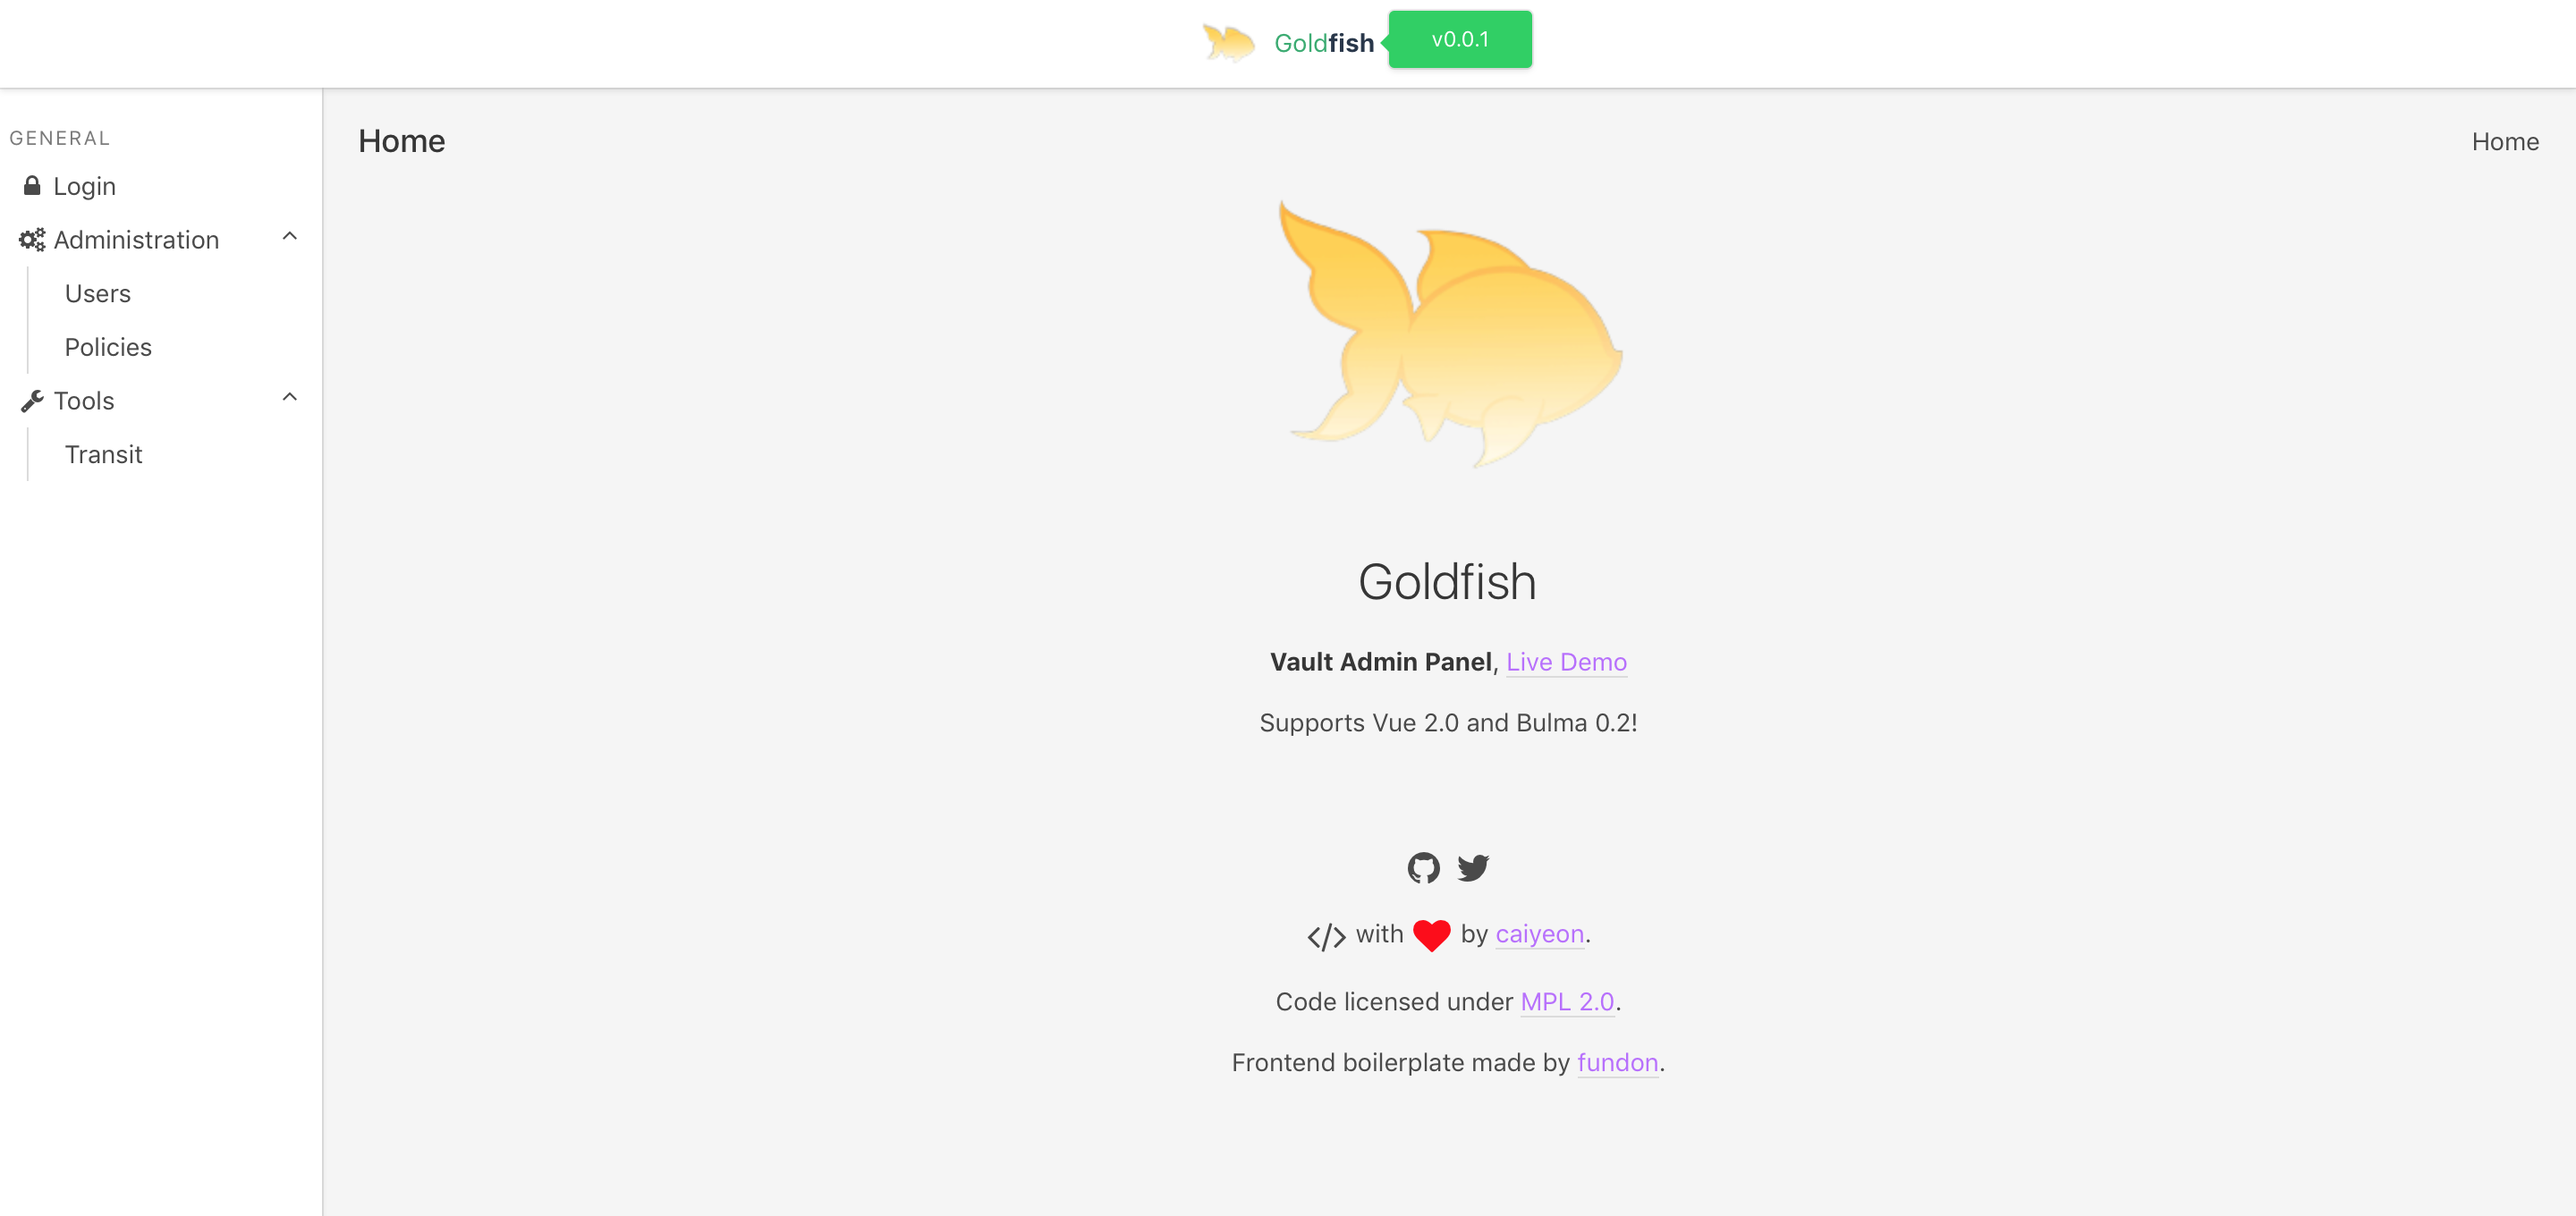
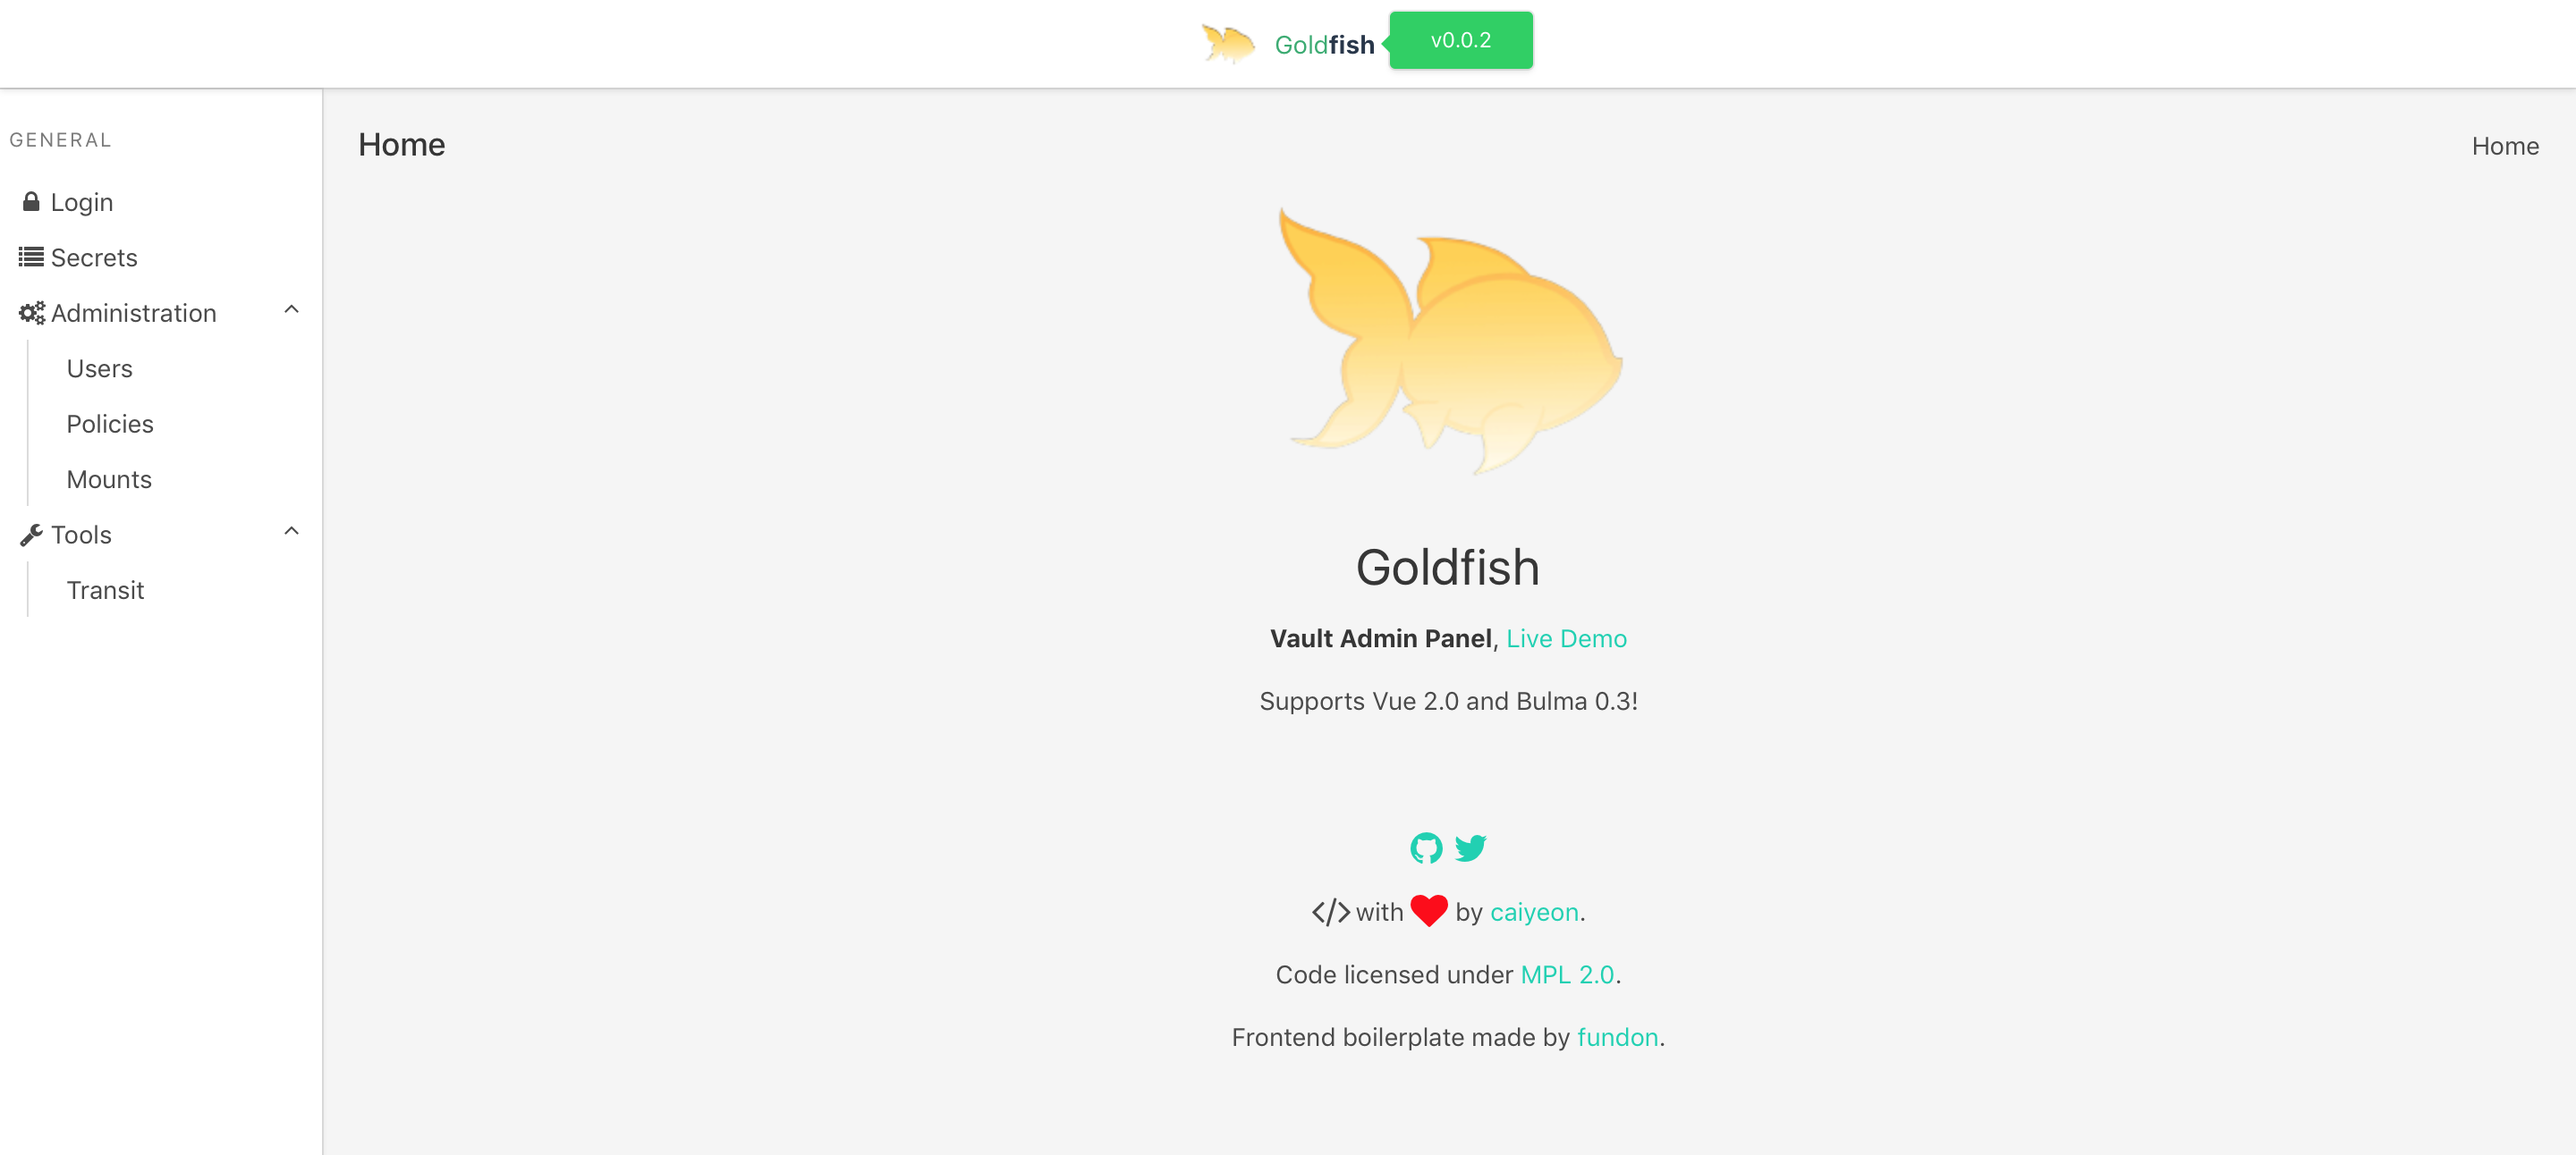
Updated readme and screenshots

diff --git a/frontend/client/views/secrets/index.vue b/frontend/client/views/secrets/index.vue
@@ -71,9 +71,11 @@
                   <td>
                     {{ entry.desc }}
                   </td>
-                  <td class="is-icon">
+                  <td width="68">
                     <a @click="deleteItem">
+                    <span class="icon">
                       <i class="fa fa-trash-o"></i>
+                    </span>
                     </a>
                   </td>
                 </tr>
@@ -336,5 +338,9 @@
 
   .control .button {
     margin: inherit;
+  }
+
+  .fa-trash-o {
+    color: red;
   }
 </style>

diff --git a/frontend/README.md b/frontend/README.md
@@ -37,84 +37,6 @@
 * Based on the awesome third-party [libraries](doc/dependencies.md)
 
 
-## [Backers](backers.md)
-
-Its ongoing development is made possible thanks to the support by these awesome backers. If you'd like to join them, check out:
-
-* [Patreon campaign](https://www.patreon.com/_fundon)
-
-* [OpenCollective](https://opencollective.com/vue-admin#backer): Support us with a monthly donation and help us continue our activities
-
-<a href="https://opencollective.com/vue-admin/backer/0/website" target="_blank"><img src="https://opencollective.com/vue-admin/backer/0/avatar.svg"></a>
-<a href="https://opencollective.com/vue-admin/backer/1/website" target="_blank"><img src="https://opencollective.com/vue-admin/backer/1/avatar.svg"></a>
-<a href="https://opencollective.com/vue-admin/backer/2/website" target="_blank"><img src="https://opencollective.com/vue-admin/backer/2/avatar.svg"></a>
-<a href="https://opencollective.com/vue-admin/backer/3/website" target="_blank"><img src="https://opencollective.com/vue-admin/backer/3/avatar.svg"></a>
-<a href="https://opencollective.com/vue-admin/backer/4/website" target="_blank"><img src="https://opencollective.com/vue-admin/backer/4/avatar.svg"></a>
-<a href="https://opencollective.com/vue-admin/backer/5/website" target="_blank"><img src="https://opencollective.com/vue-admin/backer/5/avatar.svg"></a>
-<a href="https://opencollective.com/vue-admin/backer/6/website" target="_blank"><img src="https://opencollective.com/vue-admin/backer/6/avatar.svg"></a>
-<a href="https://opencollective.com/vue-admin/backer/7/website" target="_blank"><img src="https://opencollective.com/vue-admin/backer/7/avatar.svg"></a>
-<a href="https://opencollective.com/vue-admin/backer/8/website" target="_blank"><img src="https://opencollective.com/vue-admin/backer/8/avatar.svg"></a>
-<a href="https://opencollective.com/vue-admin/backer/9/website" target="_blank"><img src="https://opencollective.com/vue-admin/backer/9/avatar.svg"></a>
-<a href="https://opencollective.com/vue-admin/backer/10/website" target="_blank"><img src="https://opencollective.com/vue-admin/backer/10/avatar.svg"></a>
-<a href="https://opencollective.com/vue-admin/backer/11/website" target="_blank"><img src="https://opencollective.com/vue-admin/backer/11/avatar.svg"></a>
-<a href="https://opencollective.com/vue-admin/backer/12/website" target="_blank"><img src="https://opencollective.com/vue-admin/backer/12/avatar.svg"></a>
-<a href="https://opencollective.com/vue-admin/backer/13/website" target="_blank"><img src="https://opencollective.com/vue-admin/backer/13/avatar.svg"></a>
-<a href="https://opencollective.com/vue-admin/backer/14/website" target="_blank"><img src="https://opencollective.com/vue-admin/backer/14/avatar.svg"></a>
-<a href="https://opencollective.com/vue-admin/backer/15/website" target="_blank"><img src="https://opencollective.com/vue-admin/backer/15/avatar.svg"></a>
-<a href="https://opencollective.com/vue-admin/backer/16/website" target="_blank"><img src="https://opencollective.com/vue-admin/backer/16/avatar.svg"></a>
-<a href="https://opencollective.com/vue-admin/backer/17/website" target="_blank"><img src="https://opencollective.com/vue-admin/backer/17/avatar.svg"></a>
-<a href="https://opencollective.com/vue-admin/backer/18/website" target="_blank"><img src="https://opencollective.com/vue-admin/backer/18/avatar.svg"></a>
-<a href="https://opencollective.com/vue-admin/backer/19/website" target="_blank"><img src="https://opencollective.com/vue-admin/backer/19/avatar.svg"></a>
-<a href="https://opencollective.com/vue-admin/backer/20/website" target="_blank"><img src="https://opencollective.com/vue-admin/backer/20/avatar.svg"></a>
-<a href="https://opencollective.com/vue-admin/backer/21/website" target="_blank"><img src="https://opencollective.com/vue-admin/backer/21/avatar.svg"></a>
-<a href="https://opencollective.com/vue-admin/backer/22/website" target="_blank"><img src="https://opencollective.com/vue-admin/backer/22/avatar.svg"></a>
-<a href="https://opencollective.com/vue-admin/backer/23/website" target="_blank"><img src="https://opencollective.com/vue-admin/backer/23/avatar.svg"></a>
-<a href="https://opencollective.com/vue-admin/backer/24/website" target="_blank"><img src="https://opencollective.com/vue-admin/backer/24/avatar.svg"></a>
-<a href="https://opencollective.com/vue-admin/backer/25/website" target="_blank"><img src="https://opencollective.com/vue-admin/backer/25/avatar.svg"></a>
-<a href="https://opencollective.com/vue-admin/backer/26/website" target="_blank"><img src="https://opencollective.com/vue-admin/backer/26/avatar.svg"></a>
-<a href="https://opencollective.com/vue-admin/backer/27/website" target="_blank"><img src="https://opencollective.com/vue-admin/backer/27/avatar.svg"></a>
-<a href="https://opencollective.com/vue-admin/backer/28/website" target="_blank"><img src="https://opencollective.com/vue-admin/backer/28/avatar.svg"></a>
-<a href="https://opencollective.com/vue-admin/backer/29/website" target="_blank"><img src="https://opencollective.com/vue-admin/backer/29/avatar.svg"></a>
-
-## Sponsors
-
-Become a sponsor and get your logo on our README on Github with a link to your site. [[Become a sponsor](https://opencollective.com/vue-admin#sponsor)]
-
-<a href="https://opencollective.com/vue-admin/sponsor/0/website" target="_blank"><img src="https://opencollective.com/vue-admin/sponsor/0/avatar.svg"></a>
-<a href="https://opencollective.com/vue-admin/sponsor/1/website" target="_blank"><img src="https://opencollective.com/vue-admin/sponsor/1/avatar.svg"></a>
-<a href="https://opencollective.com/vue-admin/sponsor/2/website" target="_blank"><img src="https://opencollective.com/vue-admin/sponsor/2/avatar.svg"></a>
-<a href="https://opencollective.com/vue-admin/sponsor/3/website" target="_blank"><img src="https://opencollective.com/vue-admin/sponsor/3/avatar.svg"></a>
-<a href="https://opencollective.com/vue-admin/sponsor/4/website" target="_blank"><img src="https://opencollective.com/vue-admin/sponsor/4/avatar.svg"></a>
-<a href="https://opencollective.com/vue-admin/sponsor/5/website" target="_blank"><img src="https://opencollective.com/vue-admin/sponsor/5/avatar.svg"></a>
-<a href="https://opencollective.com/vue-admin/sponsor/6/website" target="_blank"><img src="https://opencollective.com/vue-admin/sponsor/6/avatar.svg"></a>
-<a href="https://opencollective.com/vue-admin/sponsor/7/website" target="_blank"><img src="https://opencollective.com/vue-admin/sponsor/7/avatar.svg"></a>
-<a href="https://opencollective.com/vue-admin/sponsor/8/website" target="_blank"><img src="https://opencollective.com/vue-admin/sponsor/8/avatar.svg"></a>
-<a href="https://opencollective.com/vue-admin/sponsor/9/website" target="_blank"><img src="https://opencollective.com/vue-admin/sponsor/9/avatar.svg"></a>
-<a href="https://opencollective.com/vue-admin/sponsor/10/website" target="_blank"><img src="https://opencollective.com/vue-admin/sponsor/10/avatar.svg"></a>
-<a href="https://opencollective.com/vue-admin/sponsor/11/website" target="_blank"><img src="https://opencollective.com/vue-admin/sponsor/11/avatar.svg"></a>
-<a href="https://opencollective.com/vue-admin/sponsor/12/website" target="_blank"><img src="https://opencollective.com/vue-admin/sponsor/12/avatar.svg"></a>
-<a href="https://opencollective.com/vue-admin/sponsor/13/website" target="_blank"><img src="https://opencollective.com/vue-admin/sponsor/13/avatar.svg"></a>
-<a href="https://opencollective.com/vue-admin/sponsor/14/website" target="_blank"><img src="https://opencollective.com/vue-admin/sponsor/14/avatar.svg"></a>
-<a href="https://opencollective.com/vue-admin/sponsor/15/website" target="_blank"><img src="https://opencollective.com/vue-admin/sponsor/15/avatar.svg"></a>
-<a href="https://opencollective.com/vue-admin/sponsor/16/website" target="_blank"><img src="https://opencollective.com/vue-admin/sponsor/16/avatar.svg"></a>
-<a href="https://opencollective.com/vue-admin/sponsor/17/website" target="_blank"><img src="https://opencollective.com/vue-admin/sponsor/17/avatar.svg"></a>
-<a href="https://opencollective.com/vue-admin/sponsor/18/website" target="_blank"><img src="https://opencollective.com/vue-admin/sponsor/18/avatar.svg"></a>
-<a href="https://opencollective.com/vue-admin/sponsor/19/website" target="_blank"><img src="https://opencollective.com/vue-admin/sponsor/19/avatar.svg"></a>
-<a href="https://opencollective.com/vue-admin/sponsor/20/website" target="_blank"><img src="https://opencollective.com/vue-admin/sponsor/20/avatar.svg"></a>
-<a href="https://opencollective.com/vue-admin/sponsor/21/website" target="_blank"><img src="https://opencollective.com/vue-admin/sponsor/21/avatar.svg"></a>
-<a href="https://opencollective.com/vue-admin/sponsor/22/website" target="_blank"><img src="https://opencollective.com/vue-admin/sponsor/22/avatar.svg"></a>
-<a href="https://opencollective.com/vue-admin/sponsor/23/website" target="_blank"><img src="https://opencollective.com/vue-admin/sponsor/23/avatar.svg"></a>
-<a href="https://opencollective.com/vue-admin/sponsor/24/website" target="_blank"><img src="https://opencollective.com/vue-admin/sponsor/24/avatar.svg"></a>
-<a href="https://opencollective.com/vue-admin/sponsor/25/website" target="_blank"><img src="https://opencollective.com/vue-admin/sponsor/25/avatar.svg"></a>
-<a href="https://opencollective.com/vue-admin/sponsor/26/website" target="_blank"><img src="https://opencollective.com/vue-admin/sponsor/26/avatar.svg"></a>
-<a href="https://opencollective.com/vue-admin/sponsor/27/website" target="_blank"><img src="https://opencollective.com/vue-admin/sponsor/27/avatar.svg"></a>
-<a href="https://opencollective.com/vue-admin/sponsor/28/website" target="_blank"><img src="https://opencollective.com/vue-admin/sponsor/28/avatar.svg"></a>
-<a href="https://opencollective.com/vue-admin/sponsor/29/website" target="_blank"><img src="https://opencollective.com/vue-admin/sponsor/29/avatar.svg"></a>
-
-
-## [Development](doc/development.md)
-
-
 ### Requirements
 
   * Node >= v5
@@ -122,13 +44,6 @@ Become a sponsor and get your logo on our README on Github with a link to your s
   * NPM >= v3
 
   * Webpack v2
-
-
-## Notes
-
-  If you want to use Vue Admin with Vue 1.0 version, please checkout the [vue-v1](https://github.com/vue-bulma/vue-admin/tree/vue-v1) branch.
-
-  Launch Vue Admin as a desktop application! Please check [Run Project with Electron](https://github.com/vue-bulma/vue-admin/wiki/Guide#run-project-with-electron)
 
 
 ## Maintainers

diff --git a/README.md b/README.md
@@ -1,17 +1,31 @@
-# What is this?
+<div align="center">
+
+<h3>Goldfish Vault UI - <a href="http://67.205.184.214:8000">Live Demo</a></h3>
+
+<p><img width="250" src="https://github.com/Caiyeon/goldfish/blob/master/frontend/client/assets/logo%402x.png"></p>
+
+</div>
+
+## What is this?
 
 Goldfish is a UI for [HashiCorp Vault](https://www.vaultproject.io)
 
-Although Vault's REST API is powerful, certain operations would benefit from a visual representation of data.
+Although Vault's REST API is powerful, certain operations would benefit from a visual representation.
 
 <!--
 -->
 ## Features
 
-* Login via token
-* Listing all users (tokens and userpass)
-* Listing all policies
-* Encrypting and decrypting arbitrary strings
+* [x] Reading secrets
+* [x] Listing users (tokens and userpass)
+* [x] Listing policies
+* [x] Listing and tuning mounts
+* [x] Encrypting and decrypting arbitrary strings (via transit backend)
+* [ ] Writing secrets
+* [ ] Listing approle role-id and secret-id
+* [ ] Login with userpass & more
+* [ ] Local settings mapping policy names to labels (for easier user listing visualization)
+* [ ] Secret backend specific tools (e.g. AWS backend)
 
 <!--
 -->
@@ -21,6 +35,13 @@ Although Vault's REST API is powerful, certain operations would benefit from a v
 
 
 ![](screenshots/Login.png)
+
+
+![](screenshots/Secrets.png)
+
+
+![](screenshots/Mounts.png)
+
 
 <!--
 -->
@@ -38,17 +59,21 @@ Backend:
 -->
 ## Design
 
-The user logs on by sending credentials (token) to the backend API wrapper, which encrypts the token with Vault's [transit backend](https://www.vaultproject.io/docs/secrets/transit/) before sending it back as a [secure cookie](http://www.gorillatoolkit.org/pkg/securecookie)
+User credentials, upon logging in, are encrypted using the [transit backend](https://www.vaultproject.io/docs/secrets/transit/) and the cipher is sent back as a [secure cookie](http://www.gorillatoolkit.org/pkg/securecookie)
 
-Any future actions from the user will be verified by sending the secure cookie to the wrapper, which is validated by [gorilla secure cookie package](http://www.gorillatoolkit.org/pkg/securecookie), and then decrypted using Vault's [transit backend](https://www.vaultproject.io/docs/secrets/transit/) again, before being validated and used for the action.
+Any future actions from the user will be verified by decrypting the user's cookie with the [transit backend](https://www.vaultproject.io/docs/secrets/transit/) before being validated and used for the action.
 
-This does create another component in the workflow where secret information resides in (albeit temporarily). I am not 100% sold on having the backend wrapper, and may completely remove it.
+Any actions performed (except user credential encryption/decryption via transit) will **only** be done using the user's credentials, and never using the goldfish server's token. This ensures traceability.
+
+If Vault implements CORS, there is a possibility of goldfish becoming serverless, and being shipped as a desktop application using electron.
 
 <!--
 -->
-# Installation
+## Installation
 
-Coming soon (TM)
+A full vagrant box simulation script will come soon(TM)
+
+For now, see `scripts` folder for a basic idea of how to setup goldfish
 
 
 
